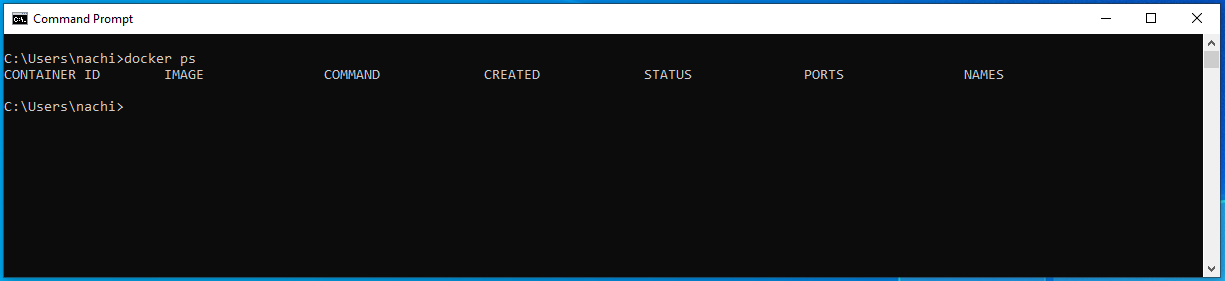
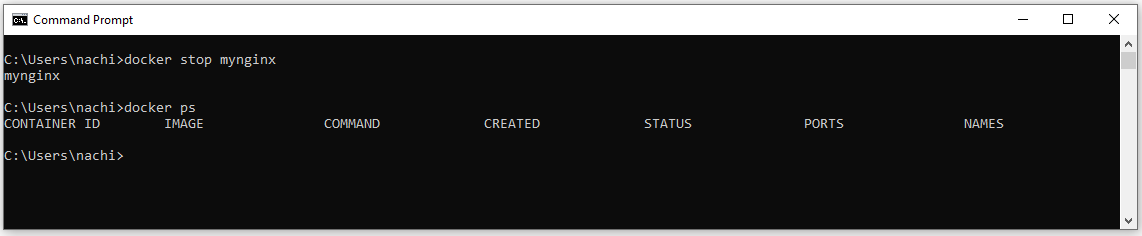
Completed pictures for lesson 1

diff --git a/Concepts/Lesson-01.md b/Concepts/Lesson-01.md
@@ -51,7 +51,7 @@ docker ps
 ![docker ps output](/L01-E03-P01.png)
  1. Now, we can verify this by visiting the page [http://localhost:8090](http://localhost:8090) in incognito mode. The page should look similar to the picture below.
 
-![TBD](/tbd.png)
+![Unreachable page](/L01-E03-P02.png)
 
 ## Experiment 4
  1. We have stopped the container, and as expected the command `docker ps` is not showing mynginx container.
